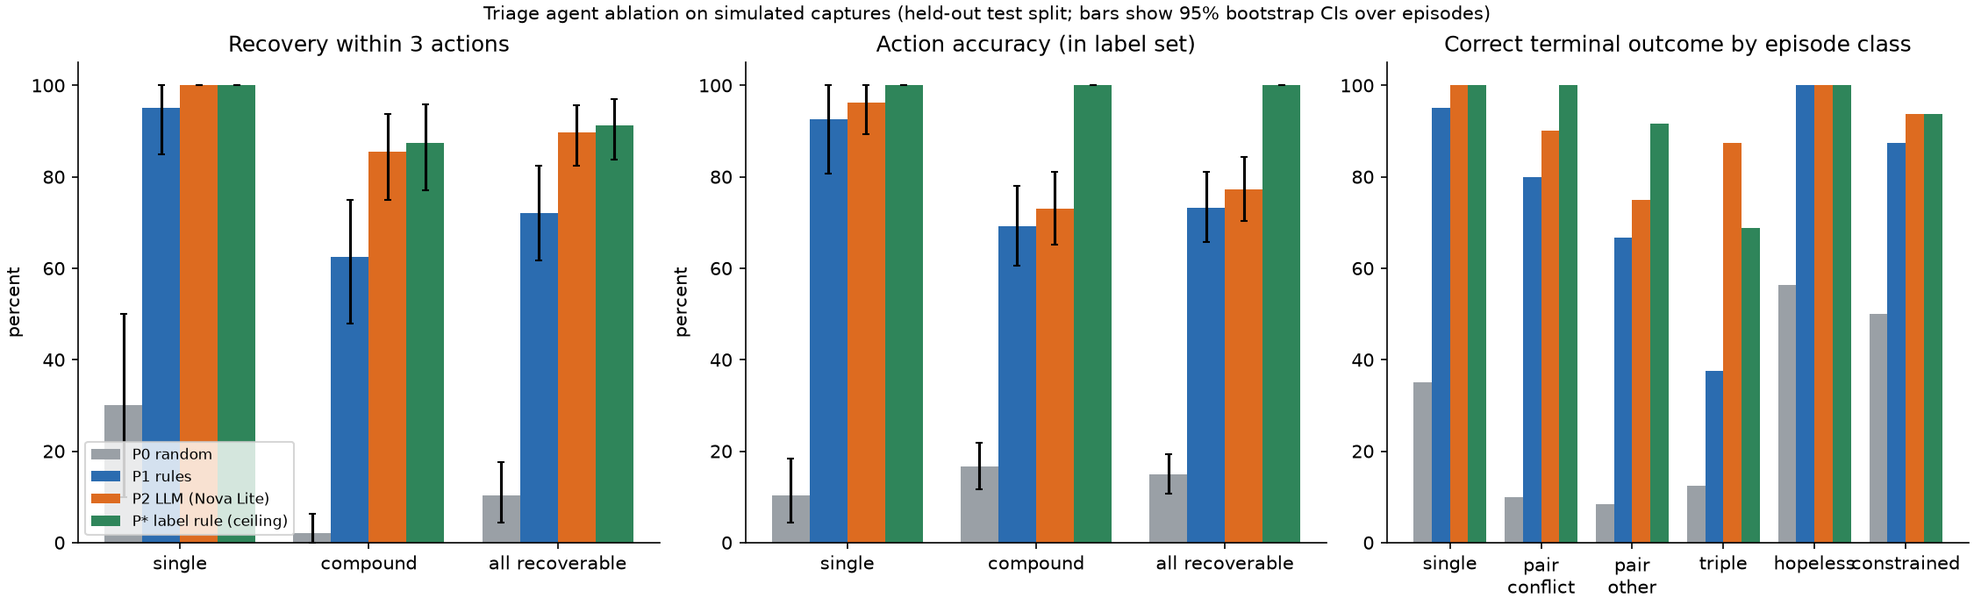
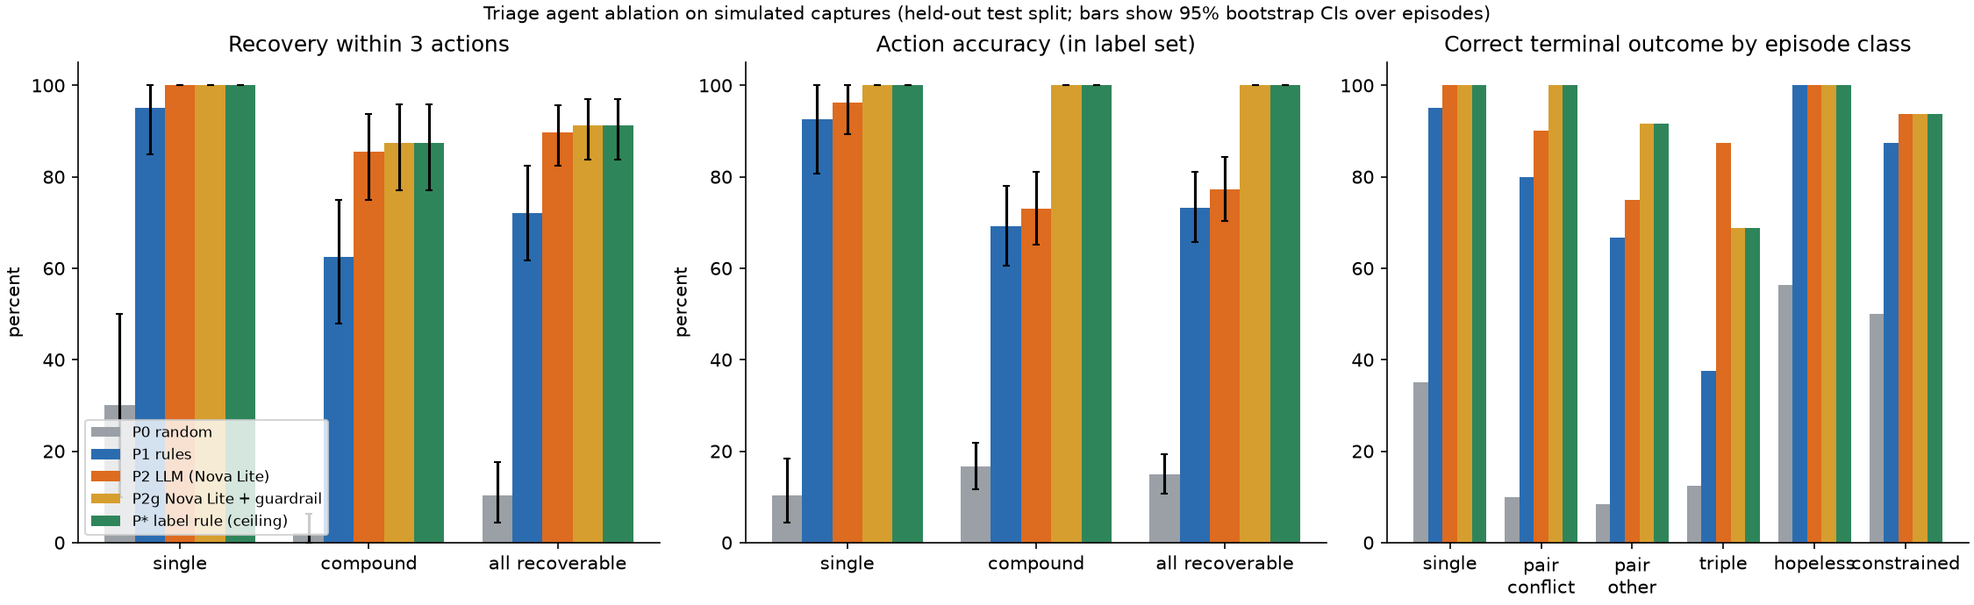
Ablation Addendum B: P2g (Nova Lite + guardrail) on the held-out split, P3 not run (Haiku 4.5 use-case form); live default policy llm with guardrail, Nova Lite primary; UI guardrail chip

diff --git a/service/static/app.js b/service/static/app.js
@@ -448,6 +448,16 @@
     return h("span", null, label ? label + " " : "", h("b", { text: value }));
   }
 
+  // What the code-side checker did to the model's answer (agent.py guardrail): nothing, a re-ask, or a text repair.
+  function guardText(d) {
+    const g = d && d.guardrail;
+    if (!g || typeof g !== "object") return "";
+    if (g.action_rejected) return "action rejected, rules used";
+    if (g.repaired) return "text replaced by rules wording";
+    if (g.reask) return "fixed after re-ask";
+    return "checked";
+  }
+
   function render(data, roundTripMs) {
     const m = data.measurement || {};
     const d = data.decision || {};
@@ -467,6 +477,9 @@
     const meta = $("banner-meta");
     meta.replaceChildren(metaSpan("policy", d.policy || "n/a"));
     if (d.model) meta.append(metaSpan("model", d.model));
+    const gtxt = guardText(d);
+    if (gtxt) meta.append(metaSpan("guardrail", gtxt));
+    if (d.fallback_reason) meta.append(h("span", { class: "fb", text: `fallback: ${String(d.fallback_reason).replace(/_/g, " ").slice(0, 60)}` }));
     if (num(d.latency_ms)) meta.append(metaSpan("agent", `${fmtMs(d.latency_ms)} ms`));
     meta.append(metaSpan("server", `${Math.round(data.server_ms)} ms`), metaSpan("round trip", `${(roundTripMs / 1000).toFixed(1)} s`));
     const red = data.redaction;
@@ -671,6 +684,7 @@
       meta.append(h("span", null, h("b", { text: `Step ${i + 1}` }), s.ts ? ` ${hhmmss(s.ts)}` : ""));
       meta.append(metaSpan("policy", d.policy || s.policy_requested || "n/a"));
       if (d.model) meta.append(metaSpan("model", d.model));
+      if (guardText(d)) meta.append(metaSpan("guardrail", guardText(d)));
       const vis = s.timing_ms && num(s.timing_ms.total) ? s.timing_ms.total : s.server_ms;
       if (num(vis)) meta.append(metaSpan("vision", `${Math.round(vis)} ms`));
       if (num(d.latency_ms)) meta.append(metaSpan("agent", `${fmtMs(d.latency_ms)} ms`));
@@ -782,8 +796,9 @@
   $("btn-new").addEventListener("click", newInspection);
   $("btn-retake").addEventListener("click", () => setView("capture"));
   $("overlay-img").addEventListener("click", () => $("overlay-wrap").classList.toggle("zoom"));
-  $("policy").value = pref.get("prohori.policy", "rules");
-  $("policy").addEventListener("change", (e) => pref.set("prohori.policy", e.target.value));
+  // v2 key: the default became the AI agent (with a code-checked guardrail), so an old stored "rules" choice is not carried over
+  $("policy").value = pref.get("prohori.policy.v2", "llm");
+  $("policy").addEventListener("change", (e) => pref.set("prohori.policy.v2", e.target.value));
 
   fetch("/health").then((r) => r.json()).then((j) => {
     const foot = $("foot");

diff --git a/service/static/sw.js b/service/static/sw.js
@@ -1,5 +1,5 @@
 /* Prohori service worker: caches the app shell only. Never touches /api/* or /health. */
-const CACHE = "prohori-shell-v6";
+const CACHE = "prohori-shell-v7";
 const SHELL = [
   "/",
   "/static/style.css",

diff --git a/eval/agent_ablation.py b/eval/agent_ablation.py
@@ -536,7 +536,19 @@ v2 was selected and run once on the held-out split. Dev results are noisy at n =
 """
 
 
-INTERPRETATION_B = "(pending: written after the Addendum B runs)"
+INTERPRETATION_B = """**P3 (Claude Haiku 4.5) was not run.** Bedrock refused every call with `ResourceNotFoundException: Model use case details have not been submitted for this account`, for the `us.` and the `global.` Haiku 4.5 profiles. That is an Anthropic form that only the account owner can submit. The 50 dev-format decisions all fell back to the rules policy (ledger tag `p3_devfmt`, 0 USD). So the pre-registered live-default rule ("P3 meets or beats P2 and has higher faithfulness") cannot be met, and the live model stays Nova Lite. Nothing below says anything about Claude models.
+
+**P2g (Nova Lite + guardrail), compound subset, recovery within 3 actions.** 88% [77, 96], against 85% for P2 and 62% for P1. P2g - P1 is +25.0 points [+12.5, +37.5], so for the first time the lower end of the interval clears the +10 bar. P2g - P2 is +2.1 [-10.4, +14.6]: no detectable difference between the guarded and the unguarded model, as the pre-registered expectation (within 8 points) said. Single-cause episodes are unchanged (100%).
+
+**What the guardrail did.**
+1. Instruction faithfulness went from 54% [47, 61] (P2) to 99% [98, 100] (P2g); P1 is 91%. Most of P2's gap was text that cited no measured number (45% of its instructions), not wrong numbers (3% had a wrong number or claim). The wrong-number check caught few errors on this simulator because Nova's legacy-prompt text rarely mis-states a value; the review's errors came from the live CRC-gate prompt, which this study does not measure.
+2. Decisions that break a hard prompt rule fell from 19% (P2) to 0%. The frozen P1 breaks them in 24% of decisions.
+3. The first answer had a violation in 58% of decisions. A re-ask fixed 21% of all decisions; 36% still had a violation and got the rules template wording instead (the model's action was kept); 1% (2 decisions) had an action that stayed invalid and went to the rules policy. Nova Lite's own wording is therefore the operator's text in only about two thirds of decisions.
+4. Cost: 392 model calls for 250 decisions (1.6 per decision), US$0.06 for the test run, call latency p50 about 1.0 s, p95 1.4 s; a re-asked decision takes two such calls in sequence.
+
+**Why the recovery gain over P2 is small and what it means.** The action check is the prompt's own rule set, which is also what the label policy P* encodes. With it enforced, P2g's action matches the label set in 100% of decisions on uncertified captures and the primary label action in 97% (P2: 81% / 78%), and its recovery equals P* (88% compound). That is expected, not a discovery: the guardrail turns "LLM following the written rules" into "LLM whose answer is overridden by the written rules whenever it deviates". Nova Lite's contribution is the wording of the instruction (under a validator) and a policy that can still choose among the actions the rules allow; this study cannot show it reasons better than P*. False abandon of recoverable episodes dropped to 4% (P2 10%, P1 25%).
+
+**Limits added by Addendum B.** The study measures the legacy-gate prompt on the simulator; the live service uses the CRC-gate prompt, whose guardrail checks are covered by unit tests only. The validator and P* share their source (the prompt's rules), so 0% rule violations for P2g and for P* is by construction. The 54% to 99% faithfulness gain is partly a property of the check "cites a measured number", which the template wording satisfies by design. Faithfulness says the numbers and claims in the text are right; it does not say the advice is good, and the human 1-to-5 rating is still not done."""
 
 
 def fmt(r: dict, pct: bool = True) -> str:

diff --git a/src/prohori/agent.py b/src/prohori/agent.py
@@ -1438,6 +1438,7 @@ def _llm(observation, gate, cracks, history, t0, guardrail: bool | None = None) 
                     instruction = template_instruction(action, observation, gate, cracks, history)
                     gr["repaired"] = True
             riv, _ = check_instruction(None, rationale, observation, gate, cracks, history)  # type: ignore[arg-type]
+            riv = [x for x in riv if not x.startswith("cites no measured number")]   # a rationale may be number-free
             if riv:
                 rationale = "Model rationale withheld: it cited values that do not match the measurements."
                 gr["rationale_withheld"] = True

diff --git a/tests/test_guardrail.py b/tests/test_guardrail.py
@@ -349,3 +349,9 @@ def test_guardrail_dict_is_json_serialisable(fake):
     fake(tool_resp(instruction="All cracks certified."), tool_resp(instruction="Move closer."))
     r = agent.decide(*FAR, CRACK, [], policy="llm")
     json.dumps(r)
+
+
+def test_number_free_rationale_is_kept(fake):
+    fake(tool_resp(instruction=GOOD_TEXT, rationale="The board is too far away."))
+    r = agent.decide(*FAR, CRACK, [], policy="llm")
+    assert r["guardrail"]["rationale_withheld"] is False and r["rationale"] == "The board is too far away."

diff --git a/eval/results/agent_ablation.md b/eval/results/agent_ablation.md
@@ -1,23 +1,25 @@
-# Triage-agent ablation: P0 random vs P1 rules vs P2 LLM
+# Triage-agent ablation: P0 random vs P1 rules vs P2 LLM, and (Addendum B) P2g / P3 with a guardrail
 
-*Generated 2026-10-19 13:37. Simulator study on 100 held-out episodes; see the pre-registration for the design and the limits.*
+*Generated 2026-10-26 21:07. Simulator study on 100 held-out episodes; see the pre-registration for the design and the limits.*
 
 ## Provenance
 
[3 lines of base64/hex data omitted]
 * P1 source fingerprint (rules code, frozen) `b123678d8ad0dcf3`; P2 final prompt+tool fingerprint `4398a6c6a8e08194`
 * Gate thresholds used: corners >= 8, px/mm >= 8.0, blur_var >= 150.0, obliquity <= 45.0 deg, glare <= 0.05
 * P2 model `us.amazon.nova-lite-v1:0` (us-east-1, temperature 0), forced tool call, no fallback model. Seeds: test 50000-50099, dev 1000-1199, paired common random numbers.
[1 lines of base64/hex data omitted]
+* P2g Nova Lite + guardrail: run at git `ef5f0a035f`, prompt+tool fingerprint `4398a6c6a8e08194`, model `us.amazon.nova-lite-v1:0`, 151.0 s
 * Confidence intervals: 95% percentile bootstrap over episodes, 10000 resamples, seed 20261019.
 
 ## Headline: recovery within 3 actions (share of episodes certified by the 4th capture)
 
-| subset | n | P0 random | P1 rules | P2 LLM (Nova Lite) | P* label rule (ceiling) |
-|---|---|---|---|---|---|
-| single (S) | 20 | 30% [10, 50] | 95% [85, 100] | 100% [100, 100] | 100% [100, 100] |
-| compound (X+C2+C3) | 48 | 2% [0, 6] | 62% [48, 75] | 85% [75, 94] | 88% [77, 96] |
-| recoverable (S+X+C2+C3) | 68 | 10% [4, 18] | 72% [62, 82] | 90% [82, 96] | 91% [84, 97] |
+| subset | n | P0 random | P1 rules | P2 LLM (Nova Lite) | P2g Nova Lite + guardrail | P* label rule (ceiling) |
+|---|---|---|---|---|---|---|
+| single (S) | 20 | 30% [10, 50] | 95% [85, 100] | 100% [100, 100] | 100% [100, 100] | 100% [100, 100] |
+| compound (X+C2+C3) | 48 | 2% [0, 6] | 62% [48, 75] | 85% [75, 94] | 88% [77, 96] | 88% [77, 96] |
+| recoverable (S+X+C2+C3) | 68 | 10% [4, 18] | 72% [62, 82] | 90% [82, 96] | 91% [84, 97] | 91% [84, 97] |
 
 ### Pre-registered test: P2 minus P1, recovery@3, paired by episode
 
@@ -29,73 +31,101 @@
 
 Recovery within all 6 actions, compound, P2 - P1: +22.9 points [+8.3, +37.5], n=48.
 
+### Addendum B: guardrail variants, recovery@3, paired by episode (primary bar: point estimate >= +10 vs P1 on the compound subset)
+
+| comparison | subset | n | difference (points) | 95% CI | bar vs P1 |
+|---|---|---|---|---|---|
+| P2g - P1 | single (S) | 20 | +5.0 | [+0.0, +15.0] |  |
+| P2g - P1 | compound (X+C2+C3) | 48 | +25.0 | [+12.5, +37.5] | point estimate >= +10, lower bound >= +10: MET |
+| P2g - P1 | recoverable (S+X+C2+C3) | 68 | +19.1 | [+10.3, +27.9] |  |
+| P2g - P2 | single (S) | 20 | +0.0 | [+0.0, +0.0] |  |
+| P2g - P2 | compound (X+C2+C3) | 48 | +2.1 | [-10.4, +14.6] |  |
+| P2g - P2 | recoverable (S+X+C2+C3) | 68 | +1.5 | [-7.4, +10.3] |  |
+
 ## All outcome metrics, held-out test split
 
 ### Recovery within 6 actions
 
-| subset | P0 random | P1 rules | P2 LLM (Nova Lite) | P* label rule (ceiling) |
-|---|---|---|---|---|
-| single (S) | 35% [15, 55] | 95% [85, 100] | 100% [100, 100] | 100% [100, 100] |
-| compound (X+C2+C3) | 10% [2, 19] | 62% [48, 75] | 85% [75, 94] | 88% [77, 96] |
-| recoverable (S+X+C2+C3) | 18% [9, 26] | 72% [62, 82] | 90% [82, 96] | 91% [84, 97] |
-| hopeless (H) | 0% [0, 0] | 0% [0, 0] | 0% [0, 0] | 0% [0, 0] |
-| constrained (M) | 0% [0, 0] | 6% [0, 19] | 6% [0, 19] | 6% [0, 19] |
-| all | 12% [6, 19] | 50% [40, 60] | 62% [52, 71] | 63% [53, 72] |
+| subset | P0 random | P1 rules | P2 LLM (Nova Lite) | P2g Nova Lite + guardrail | P* label rule (ceiling) |
+|---|---|---|---|---|---|
+| single (S) | 35% [15, 55] | 95% [85, 100] | 100% [100, 100] | 100% [100, 100] | 100% [100, 100] |
+| compound (X+C2+C3) | 10% [2, 19] | 62% [48, 75] | 85% [75, 94] | 88% [77, 96] | 88% [77, 96] |
+| recoverable (S+X+C2+C3) | 18% [9, 26] | 72% [62, 82] | 90% [82, 96] | 91% [84, 97] | 91% [84, 97] |
+| hopeless (H) | 0% [0, 0] | 0% [0, 0] | 0% [0, 0] | 0% [0, 0] | 0% [0, 0] |
+| constrained (M) | 0% [0, 0] | 6% [0, 19] | 6% [0, 19] | 6% [0, 19] | 6% [0, 19] |
+| all | 12% [6, 19] | 50% [40, 60] | 62% [52, 71] | 63% [53, 72] | 63% [53, 72] |
 
 ### Median actions to certified (episodes that were certified)
 
-| subset | P0 random | P1 rules | P2 LLM (Nova Lite) | P* label rule (ceiling) |
-|---|---|---|---|---|
-| single (S) | 3.0 [1.0, 3.0] | 1.0 [1.0, 1.0] | 1.0 [1.0, 1.0] | 1.0 [1.0, 1.0] |
-| compound (X+C2+C3) | 6.0 [3.0, 6.0] | 2.0 [2.0, 2.0] | 2.0 [2.0, 2.0] | 2.0 [2.0, 2.0] |
-| recoverable (S+X+C2+C3) | 3.0 [2.0, 5.5] | 2.0 [1.0, 2.0] | 2.0 [2.0, 2.0] | 2.0 [2.0, 2.0] |
-| all | 3.0 [1.0, 5.5] | 2.0 [1.0, 2.0] | 2.0 [2.0, 2.0] | 2.0 [2.0, 2.0] |
+| subset | P0 random | P1 rules | P2 LLM (Nova Lite) | P2g Nova Lite + guardrail | P* label rule (ceiling) |
+|---|---|---|---|---|---|
+| single (S) | 3.0 [1.0, 3.0] | 1.0 [1.0, 1.0] | 1.0 [1.0, 1.0] | 1.0 [1.0, 1.0] | 1.0 [1.0, 1.0] |
+| compound (X+C2+C3) | 6.0 [3.0, 6.0] | 2.0 [2.0, 2.0] | 2.0 [2.0, 2.0] | 2.0 [2.0, 2.0] | 2.0 [2.0, 2.0] |
+| recoverable (S+X+C2+C3) | 3.0 [2.0, 5.5] | 2.0 [1.0, 2.0] | 2.0 [2.0, 2.0] | 2.0 [2.0, 2.0] | 2.0 [2.0, 2.0] |
+| all | 3.0 [1.0, 5.5] | 2.0 [1.0, 2.0] | 2.0 [2.0, 2.0] | 2.0 [2.0, 2.0] | 2.0 [2.0, 2.0] |
 
 ### Correct terminal outcome (certified / abandoned / widened as the class requires)
 
-| subset | P0 random | P1 rules | P2 LLM (Nova Lite) | P* label rule (ceiling) |
-|---|---|---|---|---|
-| single (S) | 35% [15, 55] | 95% [85, 100] | 100% [100, 100] | 100% [100, 100] |
-| compound (X+C2+C3) | 10% [2, 19] | 62% [48, 75] | 85% [75, 94] | 88% [77, 96] |
-| recoverable (S+X+C2+C3) | 18% [9, 26] | 72% [62, 82] | 90% [82, 96] | 91% [84, 97] |
-| hopeless (H) | 56% [31, 81] | 100% [100, 100] | 100% [100, 100] | 100% [100, 100] |
-| constrained (M) | 50% [25, 75] | 88% [69, 100] | 94% [81, 100] | 94% [81, 100] |
-| all | 29% [20, 38] | 79% [71, 87] | 92% [86, 97] | 93% [88, 98] |
+| subset | P0 random | P1 rules | P2 LLM (Nova Lite) | P2g Nova Lite + guardrail | P* label rule (ceiling) |
+|---|---|---|---|---|---|
+| single (S) | 35% [15, 55] | 95% [85, 100] | 100% [100, 100] | 100% [100, 100] | 100% [100, 100] |
+| compound (X+C2+C3) | 10% [2, 19] | 62% [48, 75] | 85% [75, 94] | 88% [77, 96] | 88% [77, 96] |
+| recoverable (S+X+C2+C3) | 18% [9, 26] | 72% [62, 82] | 90% [82, 96] | 91% [84, 97] | 91% [84, 97] |
+| hopeless (H) | 56% [31, 81] | 100% [100, 100] | 100% [100, 100] | 100% [100, 100] | 100% [100, 100] |
+| constrained (M) | 50% [25, 75] | 88% [69, 100] | 94% [81, 100] | 94% [81, 100] | 94% [81, 100] |
+| all | 29% [20, 38] | 79% [71, 87] | 92% [86, 97] | 93% [88, 98] | 93% [88, 98] |
 
 ### Action accuracy at decision points on uncertified captures
 
-| subset | metric | P0 random | P1 rules | P2 LLM (Nova Lite) | P* label rule (ceiling) |
-|---|---|---|---|---|---|
-| single (S) | acceptable (in label set) | 10% [4, 18] | 93% [81, 100] | 96% [89, 100] | 100% [100, 100] |
-| single (S) | strict (primary) | 10% [4, 18] | 93% [81, 100] | 96% [89, 100] | 100% [100, 100] |
-| single (S) | addresses some failure | 12% [5, 22] | 100% [100, 100] | 96% [89, 100] | 100% [100, 100] |
-| compound (X+C2+C3) | acceptable (in label set) | 17% [12, 22] | 69% [61, 78] | 73% [65, 81] | 100% [100, 100] |
-| compound (X+C2+C3) | strict (primary) | 16% [10, 21] | 65% [57, 73] | 70% [62, 78] | 100% [100, 100] |
-| compound (X+C2+C3) | addresses some failure | 25% [19, 31] | 98% [96, 100] | 91% [85, 96] | 100% [100, 100] |
-| recoverable (S+X+C2+C3) | acceptable (in label set) | 15% [11, 19] | 73% [66, 81] | 77% [70, 84] | 100% [100, 100] |
-| recoverable (S+X+C2+C3) | strict (primary) | 14% [10, 19] | 69% [62, 77] | 74% [68, 82] | 100% [100, 100] |
-| recoverable (S+X+C2+C3) | addresses some failure | 21% [16, 26] | 99% [97, 100] | 92% [87, 96] | 100% [100, 100] |
-| all | acceptable (in label set) | 15% [12, 19] | 76% [70, 82] | 81% [76, 85] | 100% [100, 100] |
-| all | strict (primary) | 14% [11, 18] | 73% [67, 79] | 78% [73, 83] | 100% [100, 100] |
-| all | addresses some failure | 21% [17, 25] | 99% [97, 100] | 91% [88, 94] | 100% [100, 100] |
+| subset | metric | P0 random | P1 rules | P2 LLM (Nova Lite) | P2g Nova Lite + guardrail | P* label rule (ceiling) |
+|---|---|---|---|---|---|---|
+| single (S) | acceptable (in label set) | 10% [4, 18] | 93% [81, 100] | 96% [89, 100] | 100% [100, 100] | 100% [100, 100] |
+| single (S) | strict (primary) | 10% [4, 18] | 93% [81, 100] | 96% [89, 100] | 100% [100, 100] | 100% [100, 100] |
+| single (S) | addresses some failure | 12% [5, 22] | 100% [100, 100] | 96% [89, 100] | 100% [100, 100] | 100% [100, 100] |
+| compound (X+C2+C3) | acceptable (in label set) | 17% [12, 22] | 69% [61, 78] | 73% [65, 81] | 100% [100, 100] | 100% [100, 100] |
+| compound (X+C2+C3) | strict (primary) | 16% [10, 21] | 65% [57, 73] | 70% [62, 78] | 96% [93, 99] | 100% [100, 100] |
+| compound (X+C2+C3) | addresses some failure | 25% [19, 31] | 98% [96, 100] | 91% [85, 96] | 100% [100, 100] | 100% [100, 100] |
+| recoverable (S+X+C2+C3) | acceptable (in label set) | 15% [11, 19] | 73% [66, 81] | 77% [70, 84] | 100% [100, 100] | 100% [100, 100] |
+| recoverable (S+X+C2+C3) | strict (primary) | 14% [10, 19] | 69% [62, 77] | 74% [68, 82] | 97% [94, 99] | 100% [100, 100] |
+| recoverable (S+X+C2+C3) | addresses some failure | 21% [16, 26] | 99% [97, 100] | 92% [87, 96] | 100% [100, 100] | 100% [100, 100] |
+| all | acceptable (in label set) | 15% [12, 19] | 76% [70, 82] | 81% [76, 85] | 100% [100, 100] | 100% [100, 100] |
+| all | strict (primary) | 14% [11, 18] | 73% [67, 79] | 78% [73, 83] | 97% [94, 99] | 100% [100, 100] |
+| all | addresses some failure | 21% [17, 25] | 99% [97, 100] | 91% [88, 94] | 100% [100, 100] | 100% [100, 100] |
 
 ### Escalation (abandon_and_log)
 
-| metric | P0 random | P1 rules | P2 LLM (Nova Lite) | P* label rule (ceiling) |
-|---|---|---|---|---|
-| precision vs truth (episode was hopeless) | 17% [7, 27] | 47% [30, 64] | 70% [50, 88] | 84% [67, 100] |
-| recall vs truth | 56% [31, 81] | 100% [100, 100] | 100% [100, 100] | 100% [100, 100] |
-| false abandon of recoverable episodes | 56% [44, 68] | 25% [15, 36] | 10% [4, 18] | 4% [0, 10] |
-| precision vs labelling rule (decision level) | 28% [16, 40] | 91% [80, 100] | 100% [100, 100] | 100% [100, 100] |
-| recall vs labelling rule | 15% [9, 24] | 100% [100, 100] | 100% [100, 100] | 100% [100, 100] |
+| metric | P0 random | P1 rules | P2 LLM (Nova Lite) | P2g Nova Lite + guardrail | P* label rule (ceiling) |
+|---|---|---|---|---|---|
+| precision vs truth (episode was hopeless) | 17% [7, 27] | 47% [30, 64] | 70% [50, 88] | 84% [67, 100] | 84% [67, 100] |
+| recall vs truth | 56% [31, 81] | 100% [100, 100] | 100% [100, 100] | 100% [100, 100] | 100% [100, 100] |
+| false abandon of recoverable episodes | 56% [44, 68] | 25% [15, 36] | 10% [4, 18] | 4% [0, 10] | 4% [0, 10] |
+| precision vs labelling rule (decision level) | 28% [16, 40] | 91% [80, 100] | 100% [100, 100] | 100% [100, 100] | 100% [100, 100] |
+| recall vs labelling rule | 15% [9, 24] | 100% [100, 100] | 100% [100, 100] | 100% [100, 100] | 100% [100, 100] |
 
 ### Instruction text: automated checklist (NOT the human 1-5 rating, which is pending)
 
-| check | P1 rules | P2 LLM |
-|---|---|---|
-| within 140 characters | 100% [100, 100] | 100% [100, 100] |
-| cites a number | 91% [88, 94] | 57% [49, 64] |
-| wording matches the chosen action | 100% [100, 100] | 100% [99, 100] |
+| check | P1 rules | P2 LLM (Nova Lite) | P2g Nova Lite + guardrail |
+|---|---|---|---|
+| within 140 characters | 100% [100, 100] | 100% [100, 100] | 100% [100, 100] |
+| contains a digit (original checklist) | 91% [88, 94] | 57% [49, 64] | 99% [98, 100] |
+| wording matches the chosen action | 100% [100, 100] | 100% [99, 100] | 100% [100, 100] |
+| **instruction faithfulness**: cites a measured number AND zero validator violations (Addendum B) | 91% [88, 94] | 54% [47, 61] | 99% [98, 100] |
+| instructions with a wrong number or a wrong certification claim (validator) | 0% [0, 0] | 3% [1, 5] | 0% [0, 0] |
+| instructions that cite no measured number | 9% [6, 12] | 45% [38, 52] | 1% [0, 2] |
+| decisions breaking a hard prompt rule (action check, on the output the operator sees) | 24% [18, 30] | 19% [15, 24] | 0% [0, 0] |
+
+### Guardrail activity (share of LLM decisions)
+
+| measure | P2g Nova Lite + guardrail |
+|---|---|
+| first answer had any violation (action or instruction) | 58% [50, 65] |
+| re-asked | 58% [50, 65] |
+| fixed by the re-ask | 21% [17, 26] |
+| **instruction replaced by the rules template (repaired)** | 36% [29, 42] |
+| action rejected, rules policy used | 1% [0, 2] |
+| rationale withheld | 60% [54, 66] |
+
+Pre-repair faithfulness was not stored per decision; "first answer had any violation" is the nearest quantity (it includes action violations).
 
 ## Secondary: free policies on 1,000 episodes (separate seeds 70000-70999, same generator)
 
@@ -114,7 +144,7 @@ P* minus P1, recovery@3, compound, n=480: +10.0 points [+6.5, +13.5].
 
 ## Model calls, tokens and cost (all work, including prompt iteration and probes)
 
-Total calls **419 of 600** allowed (2 returned an error), input tokens 905,729, output tokens 27,771, cost **$0.0610** at $0.06 / $0.24 per million tokens (Nova Lite; the Claude probe, if it succeeded, is priced at the same rate here and is one call).
+Section 8 total: calls **419 of 600** allowed (2 returned an error), input tokens 905,729, output tokens 27,771, cost **$0.0610** at $0.06 / $0.24 per million tokens (Nova Lite; the Claude probe, if it succeeded, is priced at the same rate here and is one call).
 
 | tag | calls | input tokens | output tokens | errors | USD |
 |---|---|---|---|---|---|
@@ -127,6 +157,18 @@ Total calls **419 of 600** allowed (2 returned an error), input tokens 905,729, 
 
 P2 fallbacks to the rules policy on the test split: **0 of 261 decisions**.
 
+### Addendum B: calls, tokens, cost and latency
+
+Addendum B total: **519 of 1500** calls allowed, **$0.0719 of $5.00** allowed (Nova Lite $0.06 / $0.24, Claude Haiku 4.5 $1.00 / $5.00 per million input / output tokens). The section 8 total above is unchanged.
+
+| run | model | calls | input tokens | output tokens | errors | USD | call latency p50 / p95 (ms) |
+|---|---|---|---|---|---|---|---|
+| p3_devfmt | `us.anthropic.claude-haiku-4-5-20251001-v1:0` | 50 | 0 | 0 | 50 | 0.0000 | 0 / 0 |
+| p2g_devfmt | `us.amazon.nova-lite-v1:0` | 75 | 173,529 | 5,344 | 0 | 0.0117 | 1051 / 2176 |
+| p2g | `us.amazon.nova-lite-v1:0` | 394 | 898,373 | 26,083 | 0 | 0.0602 | 1039 / 1411 |
+
+P2g Nova Lite + guardrail: 392 model calls for 250 decisions, 2 fallbacks to the rules policy (guardrail rejections among them: 2).
+
 ## Dev split (free policies, 200 episodes)
 
 | subset | P0 random | P1 rules | P* label rule (ceiling) |
@@ -135,7 +177,7 @@ P2 fallbacks to the rules policy on the test split: **0 of 261 decisions**.
 | recovery@3, compound (X+C2+C3) | 7% [3, 13] | 62% [53, 71] | 77% [69, 85] |
 | recovery@3, recoverable (S+X+C2+C3) | 9% [5, 14] | 69% [61, 76] | 82% [76, 89] |
 
-## Reading these results (written after the results were seen; not part of the pre-registration)
+## Reading these results: original run, P0/P1/P2 (written after those results were seen on 2026-10-19; not part of the pre-registration)
 
 **Verdict on the pre-registered criterion.** On the compound subset P2 beat P1 by +22.9 points of recovery within 3 actions (95% CI +8.3 to +37.5, n = 48 episodes). The point estimate clears the +10 bar; the lower end of the interval does not, so at the stated precision the bar is not demonstrated. On single-cause failures the difference is +5.0 [0, +15], inside the pre-registered "|diff| < 10" expectation, though the interval touches its limit.
 
@@ -162,3 +204,19 @@ v2 was selected and run once on the held-out split. Dev results are noisy at n =
 
 **Other limits.** About 100 held-out episodes, one cheap model, one annotator, a simulator whose glare, severe tilt and low-resolution distributions are assumptions (the real panel has none of them), and a perfectly cooperative operator model. `recovery@6` equals `recovery@3` for P1, P2 and P* because all three abandon at the fourth failed capture. The simulator takes the gate thresholds from `agent.GATE_THRESHOLDS` (the hand-set values); a refit gate will change the numbers. P2 ran on Nova Lite, not the production default model in `agent.py`. A usable-result metric (`usable@3_posthoc`, certified or widened within 3 actions) is in the CSV; it was added after seeing the results and is not part of the pre-registration.
 
+
+## Reading the Addendum B results, P2g and P3 (written after seeing them, 2026-10-26; not part of the pre-registration)
+
+**P3 (Claude Haiku 4.5) was not run.** Bedrock refused every call with `ResourceNotFoundException: Model use case details have not been submitted for this account`, for the `us.` and the `global.` Haiku 4.5 profiles. That is an Anthropic form that only the account owner can submit. The 50 dev-format decisions all fell back to the rules policy (ledger tag `p3_devfmt`, 0 USD). So the pre-registered live-default rule ("P3 meets or beats P2 and has higher faithfulness") cannot be met, and the live model stays Nova Lite. Nothing below says anything about Claude models.
+
+**P2g (Nova Lite + guardrail), compound subset, recovery within 3 actions.** 88% [77, 96], against 85% for P2 and 62% for P1. P2g - P1 is +25.0 points [+12.5, +37.5], so for the first time the lower end of the interval clears the +10 bar. P2g - P2 is +2.1 [-10.4, +14.6]: no detectable difference between the guarded and the unguarded model, as the pre-registered expectation (within 8 points) said. Single-cause episodes are unchanged (100%).
+
+**What the guardrail did.**
+1. Instruction faithfulness went from 54% [47, 61] (P2) to 99% [98, 100] (P2g); P1 is 91%. Most of P2's gap was text that cited no measured number (45% of its instructions), not wrong numbers (3% had a wrong number or claim). The wrong-number check caught few errors on this simulator because Nova's legacy-prompt text rarely mis-states a value; the review's errors came from the live CRC-gate prompt, which this study does not measure.
+2. Decisions that break a hard prompt rule fell from 19% (P2) to 0%. The frozen P1 breaks them in 24% of decisions.
+3. The first answer had a violation in 58% of decisions. A re-ask fixed 21% of all decisions; 36% still had a violation and got the rules template wording instead (the model's action was kept); 1% (2 decisions) had an action that stayed invalid and went to the rules policy. Nova Lite's own wording is therefore the operator's text in only about two thirds of decisions.
+4. Cost: 392 model calls for 250 decisions (1.6 per decision), US$0.06 for the test run, call latency p50 about 1.0 s, p95 1.4 s; a re-asked decision takes two such calls in sequence.
+
+**Why the recovery gain over P2 is small and what it means.** The action check is the prompt's own rule set, which is also what the label policy P* encodes. With it enforced, P2g's action matches the label set in 100% of decisions on uncertified captures and the primary label action in 97% (P2: 81% / 78%), and its recovery equals P* (88% compound). That is expected, not a discovery: the guardrail turns "LLM following the written rules" into "LLM whose answer is overridden by the written rules whenever it deviates". Nova Lite's contribution is the wording of the instruction (under a validator) and a policy that can still choose among the actions the rules allow; this study cannot show it reasons better than P*. False abandon of recoverable episodes dropped to 4% (P2 10%, P1 25%).
+
+**Limits added by Addendum B.** The study measures the legacy-gate prompt on the simulator; the live service uses the CRC-gate prompt, whose guardrail checks are covered by unit tests only. The validator and P* share their source (the prompt's rules), so 0% rule violations for P2g and for P* is by construction. The 54% to 99% faithfulness gain is partly a property of the check "cites a measured number", which the template wording satisfies by design. Faithfulness says the numbers and claims in the text are right; it does not say the advice is good, and the human 1-to-5 rating is still not done.

diff --git a/research/AGENT_PREREG.md b/research/AGENT_PREREG.md
@@ -197,3 +197,6 @@ A review of the live agent found that the LLM's instruction text contains factua
 * New model calls (separate from the 600-call budget of section 8, which is closed): at most **1,500 calls and US$5.00** in total, counting dev format checks, re-asks and fallbacks, logged in the same ledger (`eval/runs/agent_ablation/llm_ledger.jsonl`) with the model on every row. Prices: Nova Lite $0.06 / $0.24 and Claude Haiku 4.5 $1.00 / $5.00 per million input / output tokens.
 * Runs: dev format check (n = 20, one per new policy), then test split, P2g and P3, **once each**, then the secondary 1,000-episode free-policy table re-run unchanged (P0, P1, P\*). If a run is interrupted by an infrastructure error (credentials, throttling), it is repeated from the start with the same seeds and the interrupted attempt stays in the ledger.
 * Known limits added: one more cheap model; the legacy-gate prompt is measured, the CRC-gate prompt is not; the validator and the P\* label rule share the same source (the prompt's rules), so zero P\* violations is by construction; faithfulness checks the numbers and claims, not whether the advice is good.
+
+* **A2, 2026-10-26, after the P2g test run, before any P3 run.** (a) The rationale check withheld rationales that had no number in them (60% of P2g rationales were withheld for that reason). A rationale may be number-free; it is now withheld only when it cites a wrong number or claim. This changes the `rationale` text field only: actions, instructions, the guardrail record's violations/repaired fields and every reported metric are unaffected, so P2g was not re-run.
+* **A3, 2026-10-26.** P3 (`us.anthropic.claude-haiku-4-5-20251001-v1:0`) could not be run: Bedrock answers `ResourceNotFoundException: Model use case details have not been submitted for this account` for every Haiku 4.5 profile (us. and global.). That is an account-level form that only the account owner can submit. The 50 decisions of the dev format check on P3 all fell back to the rules policy and are in the ledger (tag `p3_devfmt`, 0 USD). Per B.5, P3 is then not shown to beat P2 and Nova Lite stays the primary live model. If the form is approved later, P3 is run once with this exact setup and reported as a follow-up.

diff --git a/service/README.md b/service/README.md
@@ -30,6 +30,15 @@ Limits: 15 MB upload, longest side capped at 4096 px, 30 requests per minute per
 
 Environment: `PROHORI_VERSION` (shown in `/health`), `PROHORI_INSTANCE` (skip the IMDS lookup).
 
+Agent settings (applied by `infra/push.sh` from `infra/agent.env`):
+
+| Env var | Meaning |
+|---|---|
+| `PROHORI_DEFAULT_POLICY` | policy used when the request has no `policy` field: `llm` (default on the live box) or `rules` |
+| `PROHORI_BEDROCK_MODEL` / `PROHORI_BEDROCK_FALLBACK_MODELS` | primary Bedrock model and comma-separated fallbacks, tried in order; then the rules policy |
+| `PROHORI_LLM_DAILY_CAP` | LLM decisions per UTC day (default 200); the rules policy answers after that |
+| `PROHORI_GUARDRAIL` | `0` turns the output checker off (default on; every LLM answer is validated by `agent.validate_decision` and the decision carries a `guardrail` record) |
+
 History, escalation and privacy (see `research/SERVICE_NOTES.md`):
 
 | Env var | Meaning |
